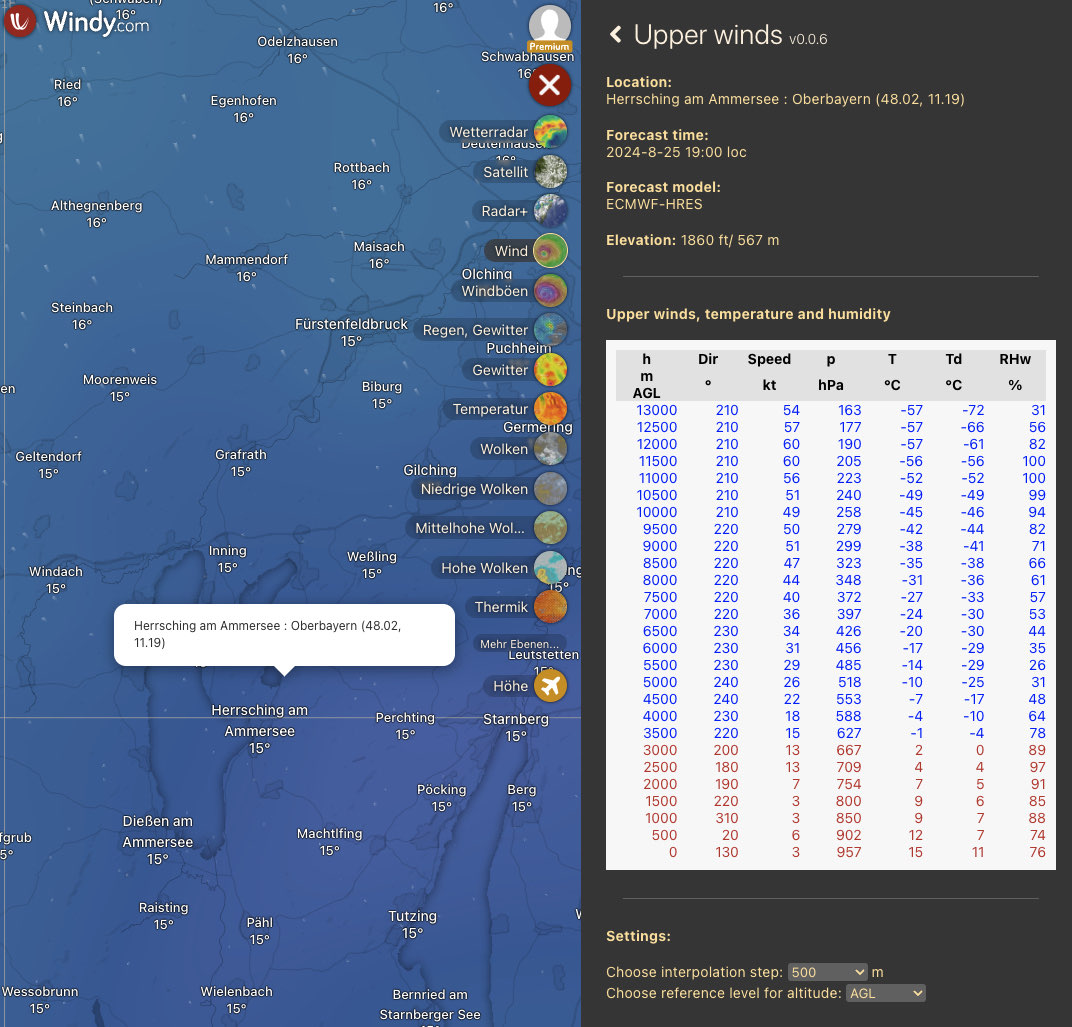
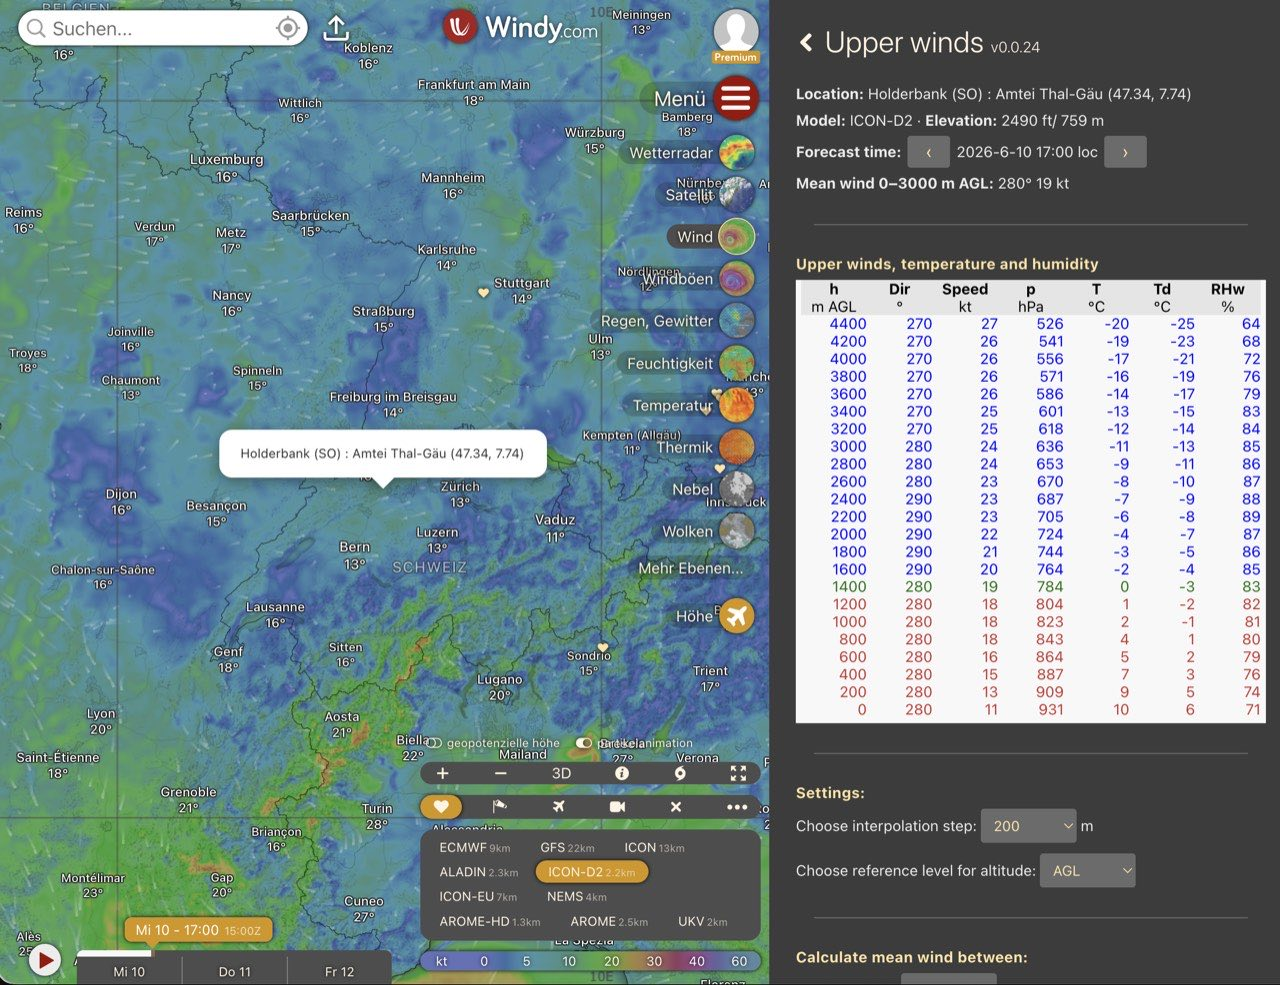
New screenshot, bump to 0.0.25, go public

diff --git a/src/pluginConfig.ts b/src/pluginConfig.ts
@@ -2,7 +2,7 @@ import type { ExternalPluginConfig } from '@windy/interfaces';
 
 const config: ExternalPluginConfig = {
     name: 'windy-plugin-upper-winds',
-    version: '0.0.24',
+    version: '0.0.25',
     icon: '🪂',
     title: 'Upper winds',
     description: 'Show upper winds, temperature and humidity at a given position',
@@ -10,11 +10,11 @@ const config: ExternalPluginConfig = {
     repository: 'https://github.com/wetterheidi/windy-plugin-upper-winds.git',
     desktopUI: 'rhpane',
     mobileUI: 'fullscreen',
-    routerPath: '/mff-winds',
+    routerPath: '/upper-winds',
     desktopWidth: 500,
     listenToSingleclick: true,
     addToContextmenu: true,
-    private: true
+    private: false,
 };
 
 export default config;